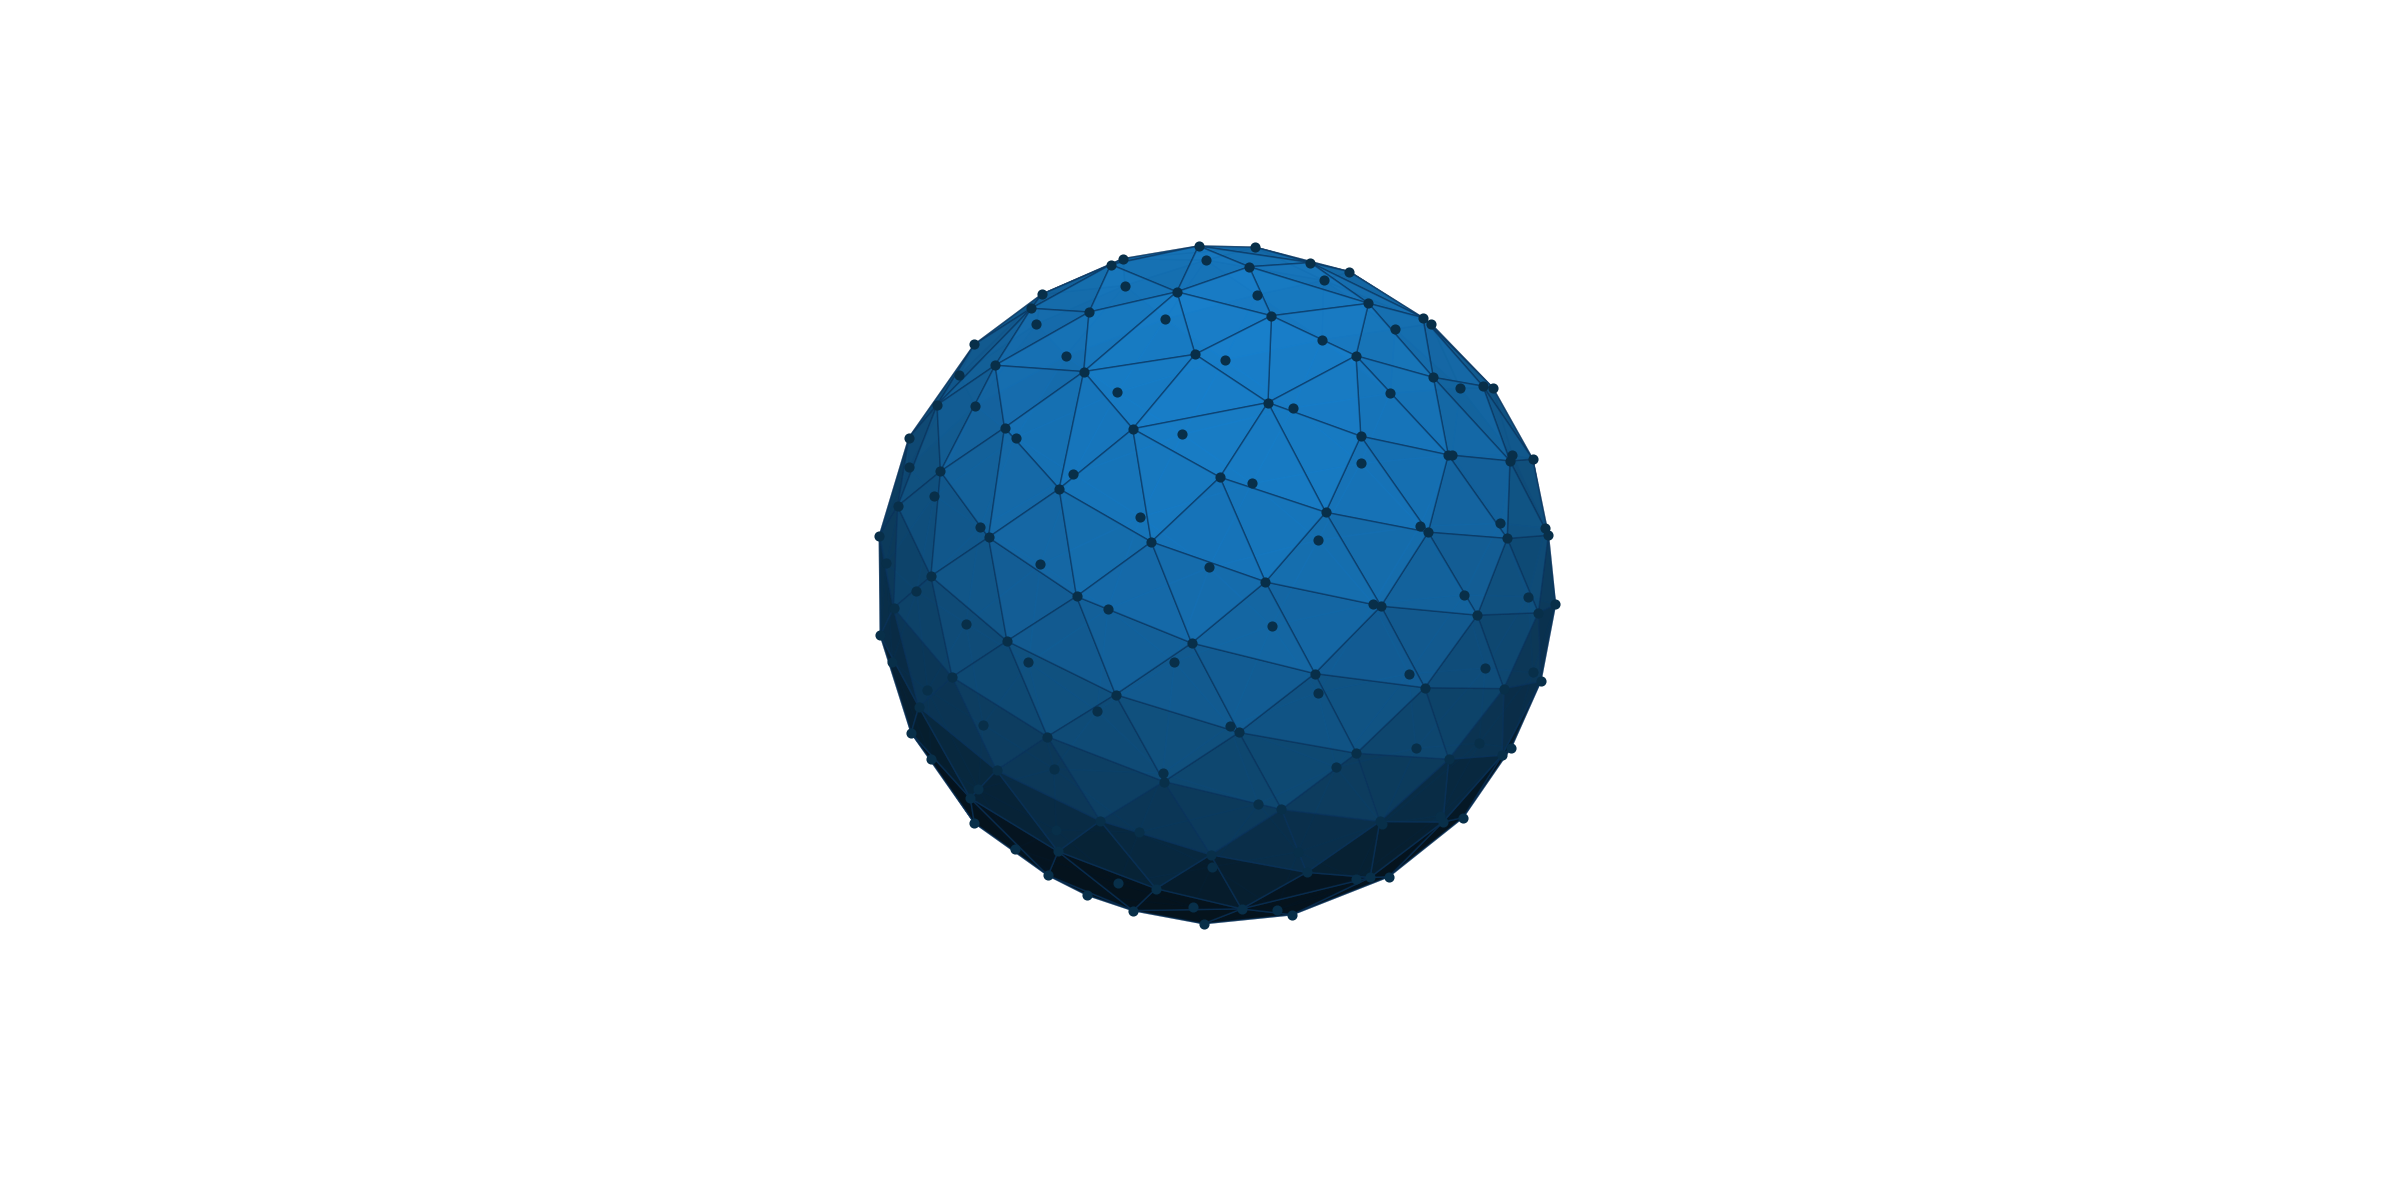
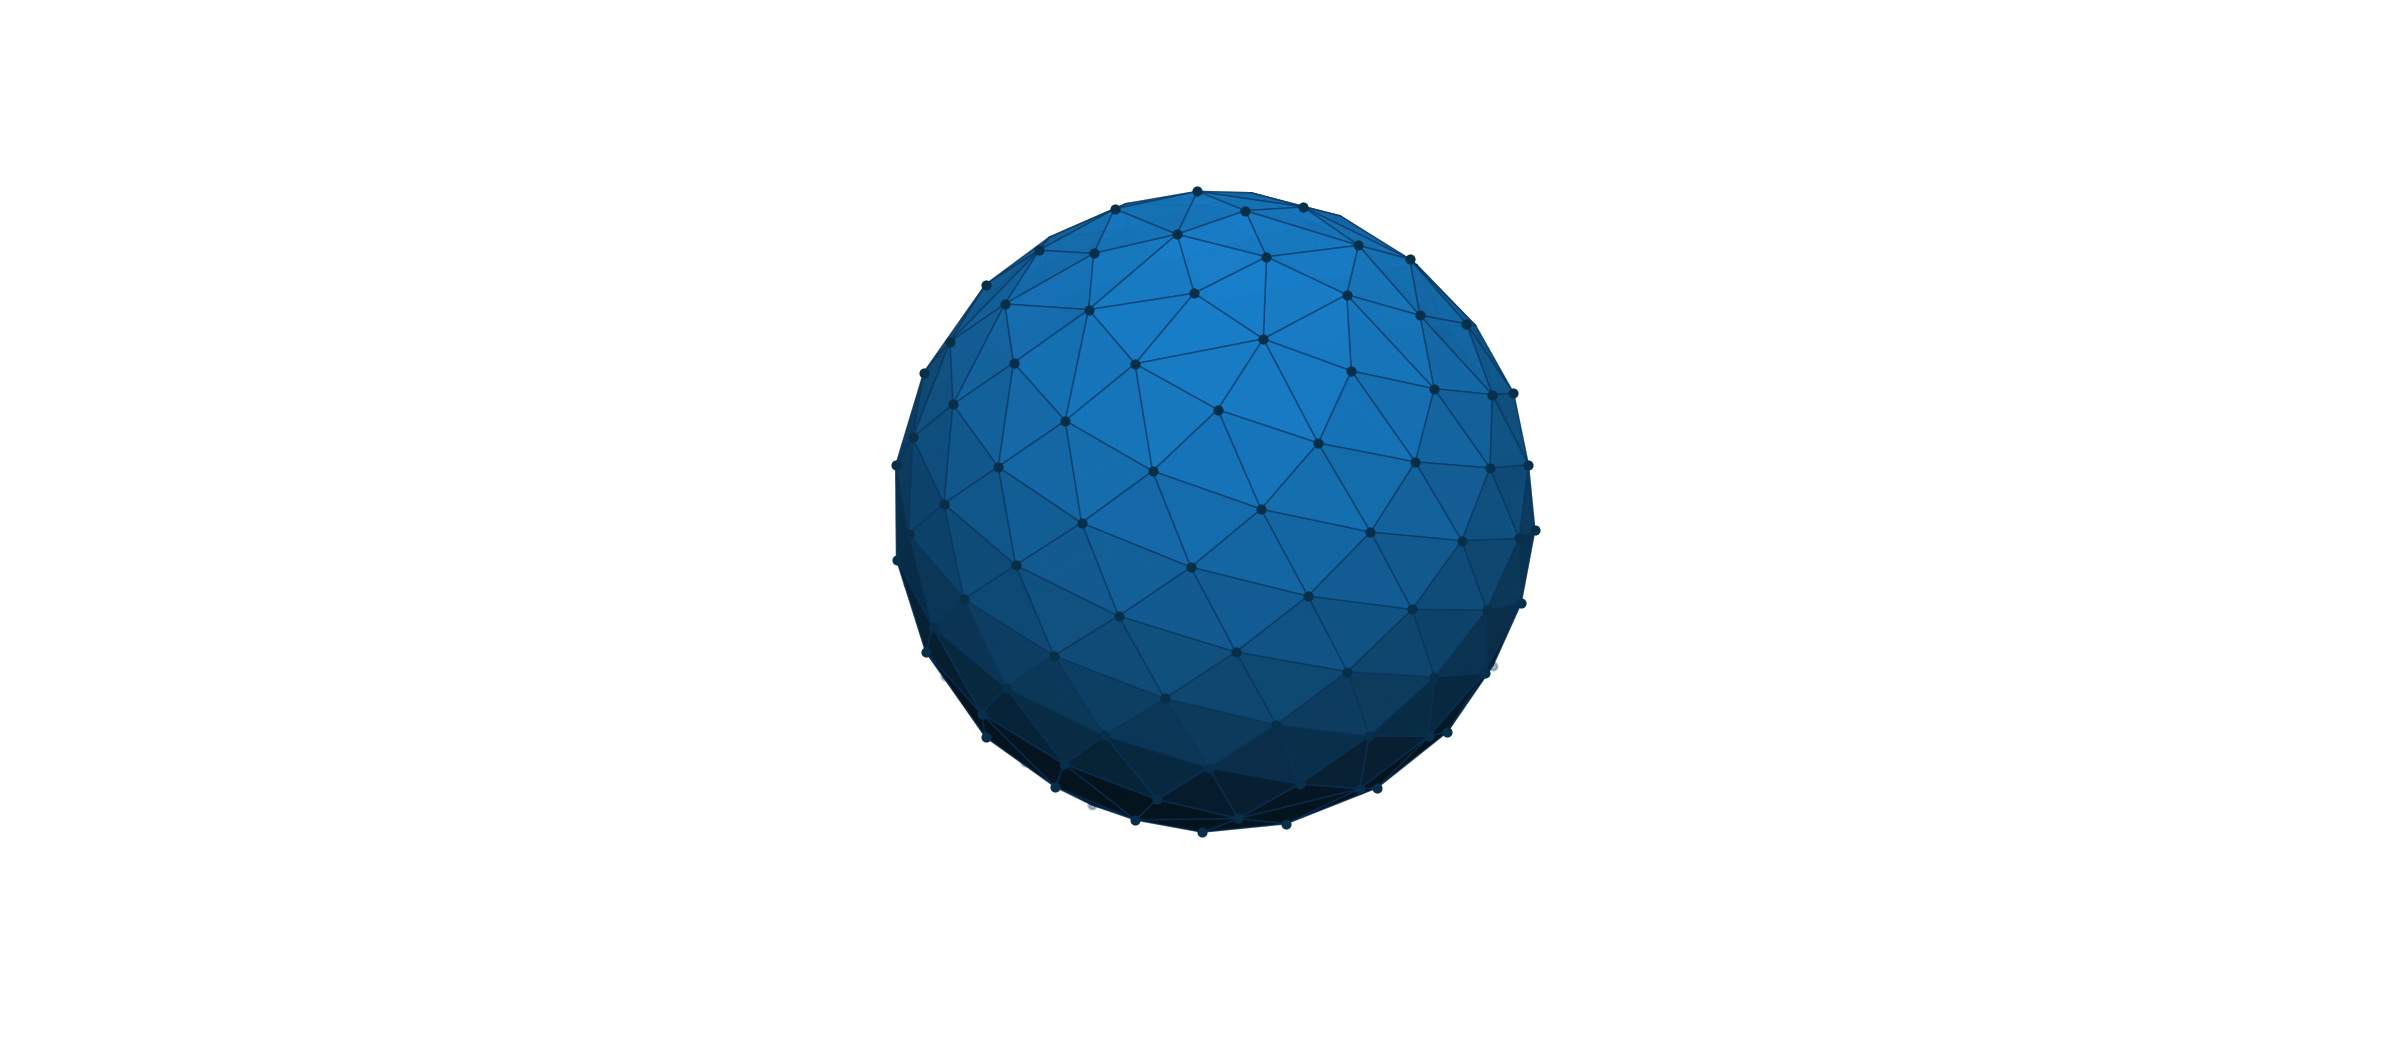
fix(visualization): harden notebook artifact workflows
- clarify the spherical hero with camera-aware vertex visibility, accessible alt text, and tighter framing
- support Windows hero binaries and the full unsigned 64-bit quickstart seed range
- distinguish absent notebook cell IDs from malformed empty IDs
- align canonical validation asset guidance with the enforced refresh workflow

diff --git a/tests/cli.rs b/tests/cli.rs
@@ -290,6 +290,40 @@ mod cli_tests {
     }
 
     #[test]
+    fn spherical_hero_accepts_minimum_vertex_count() {
+        let output = run_cli(&["spherical-hero", "--vertices", "4"]);
+        assert_success(&output);
+
+        let json = stdout_json(&output);
+        assert_eq!(json["vertices"].as_array().map(Vec::len), Some(4));
+        assert_eq!(json["simplices"].as_array().map(Vec::len), Some(4));
+    }
+
+    #[test]
+    fn spherical_hero_writes_requested_json_artifact() {
+        let path = target_json_path("spherical-hero");
+        let output = run_cli(&[
+            "spherical-hero",
+            "--vertices",
+            "8",
+            "--output",
+            path.to_str().expect("target path should be UTF-8"),
+        ]);
+        assert_success(&output);
+        assert!(
+            output.stdout.is_empty(),
+            "--output should keep spherical hero JSON out of stdout"
+        );
+
+        let json = file_json(&path);
+        assert_eq!(json["schema"], "delaunay.spherical_hero");
+        assert_eq!(json["schema_version"], 1);
+        assert_eq!(json["intrinsic_dimension"], 2);
+        assert_eq!(json["ambient_dimension"], 3);
+        assert_eq!(json["vertices"].as_array().map(Vec::len), Some(8));
+    }
+
+    #[test]
     fn spherical_hero_rejects_too_few_vertices() {
         for vertices in ["0", "3"] {
             let output = run_cli(&["spherical-hero", "--vertices", vertices]);
@@ -299,6 +333,14 @@ mod cli_tests {
                 &format!("2D generation requires at least 4 vertices, got {vertices}"),
             );
         }
+    }
+
+    #[test]
+    fn spherical_hero_rejects_empty_output_path_during_parsing() {
+        let output = run_cli(&["spherical-hero", "--vertices", "8", "--output", ""]);
+        assert_exit_code(&output, 2);
+        assert_stderr_contains(&output, "a value is required");
+        assert_stderr_contains(&output, "--output <OUTPUT>");
     }
 
     #[test]

diff --git a/scripts/tests/test_notebook_check.py b/scripts/tests/test_notebook_check.py
@@ -342,9 +342,10 @@ def test_main_lint_reports_missing_malformed_and_duplicate_cell_ids(
         notebook,
         [
             {"cell_type": "markdown", "metadata": {}, "source": "# Missing ID"},
-            code_cell("second = 2\n", cell_id="Setup_Code"),
-            code_cell("third = 3\n", cell_id="load-data"),
+            code_cell("empty = 2\n", cell_id=""),
+            code_cell("third = 3\n", cell_id="Setup_Code"),
             code_cell("fourth = 4\n", cell_id="load-data"),
+            code_cell("fifth = 5\n", cell_id="load-data"),
         ],
     )
 
@@ -354,8 +355,9 @@ def test_main_lint_reports_missing_malformed_and_duplicate_cell_ids(
     assert result == 1
     assert captured.out == ""
     assert f"{notebook}: cell 1: error: missing cell id" in captured.err
-    assert f"{notebook}: cell 2: error: cell id 'Setup_Code' must be 1-64 characters of lowercase kebab-case" in captured.err
-    assert f"{notebook}: cell 4: error: cell id 'load-data' duplicates cell 3; cell ids must be unique" in captured.err
+    assert f"{notebook}: cell 2: error: cell id '' must be 1-64 characters of lowercase kebab-case" in captured.err
+    assert f"{notebook}: cell 3: error: cell id 'Setup_Code' must be 1-64 characters of lowercase kebab-case" in captured.err
+    assert f"{notebook}: cell 5: error: cell id 'load-data' duplicates cell 4; cell ids must be unique" in captured.err
 
 
 def test_main_lint_enforces_cell_id_length_boundary(
@@ -386,7 +388,14 @@ def test_main_lint_enforces_cell_id_length_boundary(
 def test_main_summary_reports_cell_ids(tmp_path: Path, capsys: pytest.CaptureFixture[str]) -> None:
     """Notebook summaries should expose stable identifiers for review."""
     notebook = tmp_path / "summary.ipynb"
-    write_notebook(notebook, [code_cell("value = 1\n", cell_id="setup-code")])
+    write_notebook(
+        notebook,
+        [
+            code_cell("value = 1\n", cell_id="setup-code"),
+            code_cell("empty = 2\n", cell_id=""),
+            code_cell("missing = 3\n", cell_id=None),
+        ],
+    )
 
     result = main(["summary", str(notebook)])
 
@@ -394,6 +403,11 @@ def test_main_summary_reports_cell_ids(tmp_path: Path, capsys: pytest.CaptureFix
     assert result == 0
     assert captured.err == ""
     assert "id=setup-code" in captured.out
+    lines = captured.out.splitlines()
+    empty_id = next(line for line in lines if "cell 002" in line).split("id=", 1)[1].split(" lines=", 1)[0]
+    missing_id = next(line for line in lines if "cell 003" in line).split("id=", 1)[1].split(" lines=", 1)[0]
+    assert empty_id.strip() == ""
+    assert missing_id.strip() == "<missing>"
 
 
 def test_main_reports_missing_notebook_without_traceback(tmp_path: Path, capsys: pytest.CaptureFixture[str]) -> None:

diff --git a/scripts/notebook_check.py b/scripts/notebook_check.py
@@ -243,7 +243,7 @@ def summarize(path: Path) -> None:
         first_line = next((line.strip() for line in cell.source.splitlines() if line.strip()), "")
         outputs = cell.output_count if cell.is_code else 0
         execution_count = cell.execution_count if cell.is_code else ""
-        cell_id = cell.cell_id or "<missing>"
+        cell_id = "<missing>" if cell.cell_id is None else cell.cell_id
         print(
             f"  cell {cell.index:03d} {cell.cell_type:<8} "
             f"id={cell_id:<32} lines={len(cell.source.splitlines()):<3} "
@@ -523,7 +523,7 @@ def cell_id_diagnostics(notebook: NotebookDocument) -> list[Diagnostic]:
     first_cell_by_id: dict[str, int] = {}
     for cell in notebook.cells:
         cell_id = cell.cell_id
-        if not cell_id:
+        if cell_id is None:
             diagnostics.append(
                 Diagnostic("error", cell.index, "missing cell id; add a stable descriptive lowercase kebab-case id"),
             )

diff --git a/docs/dev/tooling-alignment.md b/docs/dev/tooling-alignment.md
@@ -451,9 +451,9 @@ The following previously deferred checks are now repository-owned Semgrep rules:
 - `delaunay.notebook.no-direct-tracked-figure-write` keeps direct notebook
   `savefig`/`write_image` calls away from `docs/assets/` and `docs/images/` so
   tracked artifact destinations remain controlled by named refresh recipes.
-- `delaunay.paper.validation-figures-use-canonical-assets` prevents paper-local
-  validation image copies from replacing the shared canonical figures under
-  `docs/assets/validation/`.
+- `delaunay.paper.validation-figures-use-canonical-assets` warns when paper
+  sources reference paper-local validation figures and enforces reuse of the
+  shared canonical assets under `docs/assets/validation/`.
 - `delaunay.rust.public-error-enums-non-exhaustive` requires every public
   `*Error` enum to carry `#[non_exhaustive]`, preserving room for more precise
   typed variants without forcing a breaking exhaustive-match change on users.

diff --git a/README.md b/README.md
@@ -15,7 +15,7 @@
 D-dimensional [Delaunay triangulations] and [convex hulls][Convex hulls] in [Rust], with exact predicates,
 deterministic degeneracy handling, explicit topology validation, and bistellar flips for finite point sets.
 
-![Spherical Delaunay triangulation of S² generated by the spherical hero notebook][readme-hero]
+![2D spherical Delaunay triangulation with 160 points][readme-hero]
 
 ## Contents
 

diff --git a/docs/validation.md b/docs/validation.md
@@ -1,5 +1,7 @@
 # Triangulation Validation Guide
 
+<!-- markdownlint-configure-file { "MD033": { "allowed_elements": ["img"] } } -->
+
 This document is the developer-facing validation contract for the `delaunay`
 library. It explains the validation hierarchy and gives practical guidance on
 when and how to use each validation level.

diff --git a/docs/architecture/project_structure.md b/docs/architecture/project_structure.md
@@ -35,6 +35,7 @@ delaunay/
 │   ├── tds_clone.rs
 │   └── topology_guarantee_construction.rs
 ├── docs/
+│   ├── assets/
 │   ├── architecture/
 │   │   ├── README.md
 │   │   ├── module_map.md